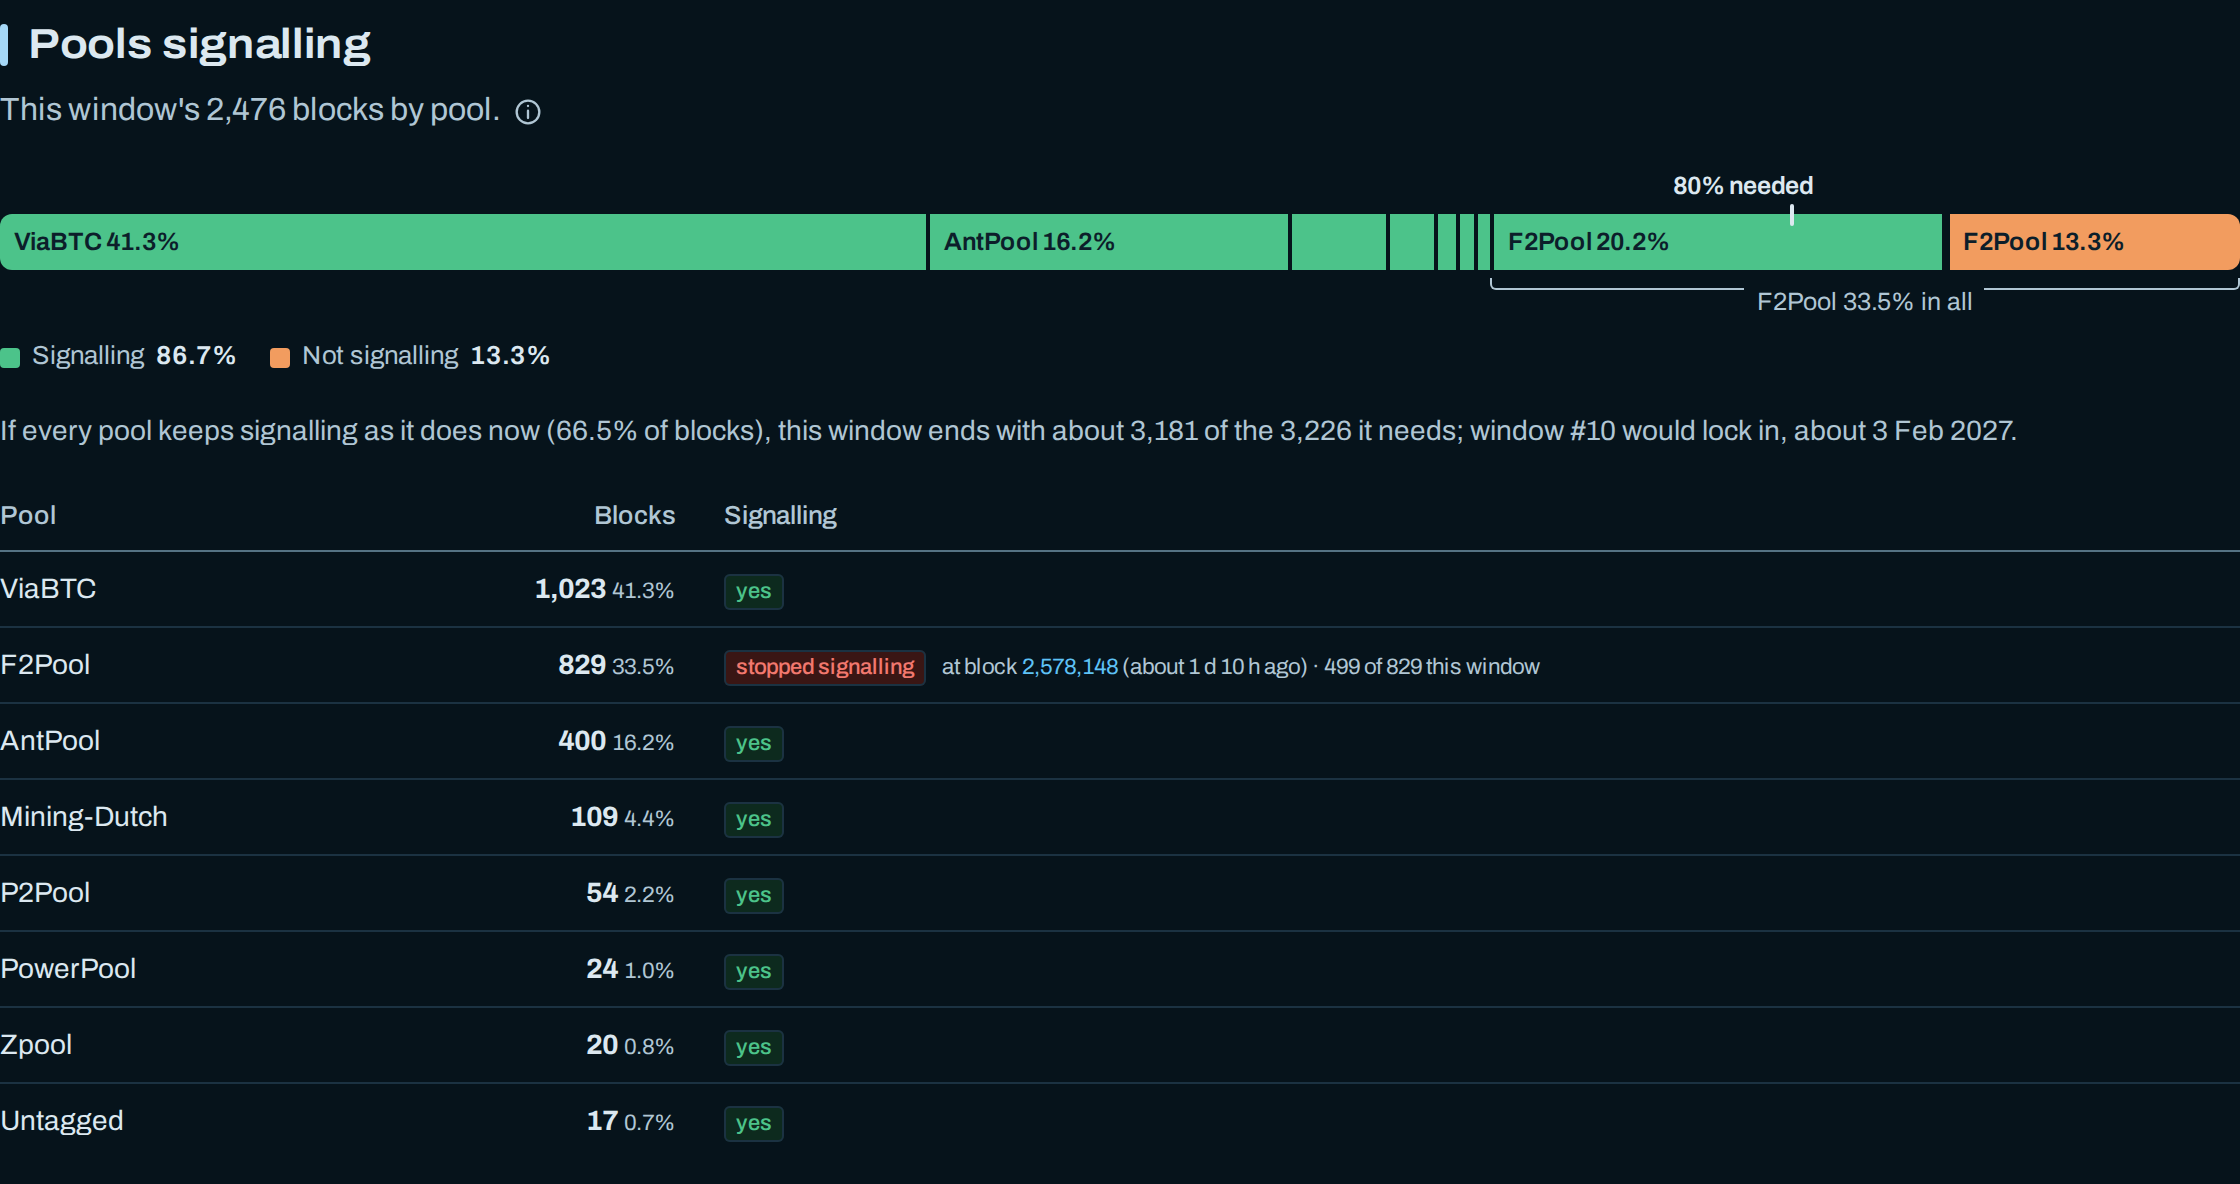
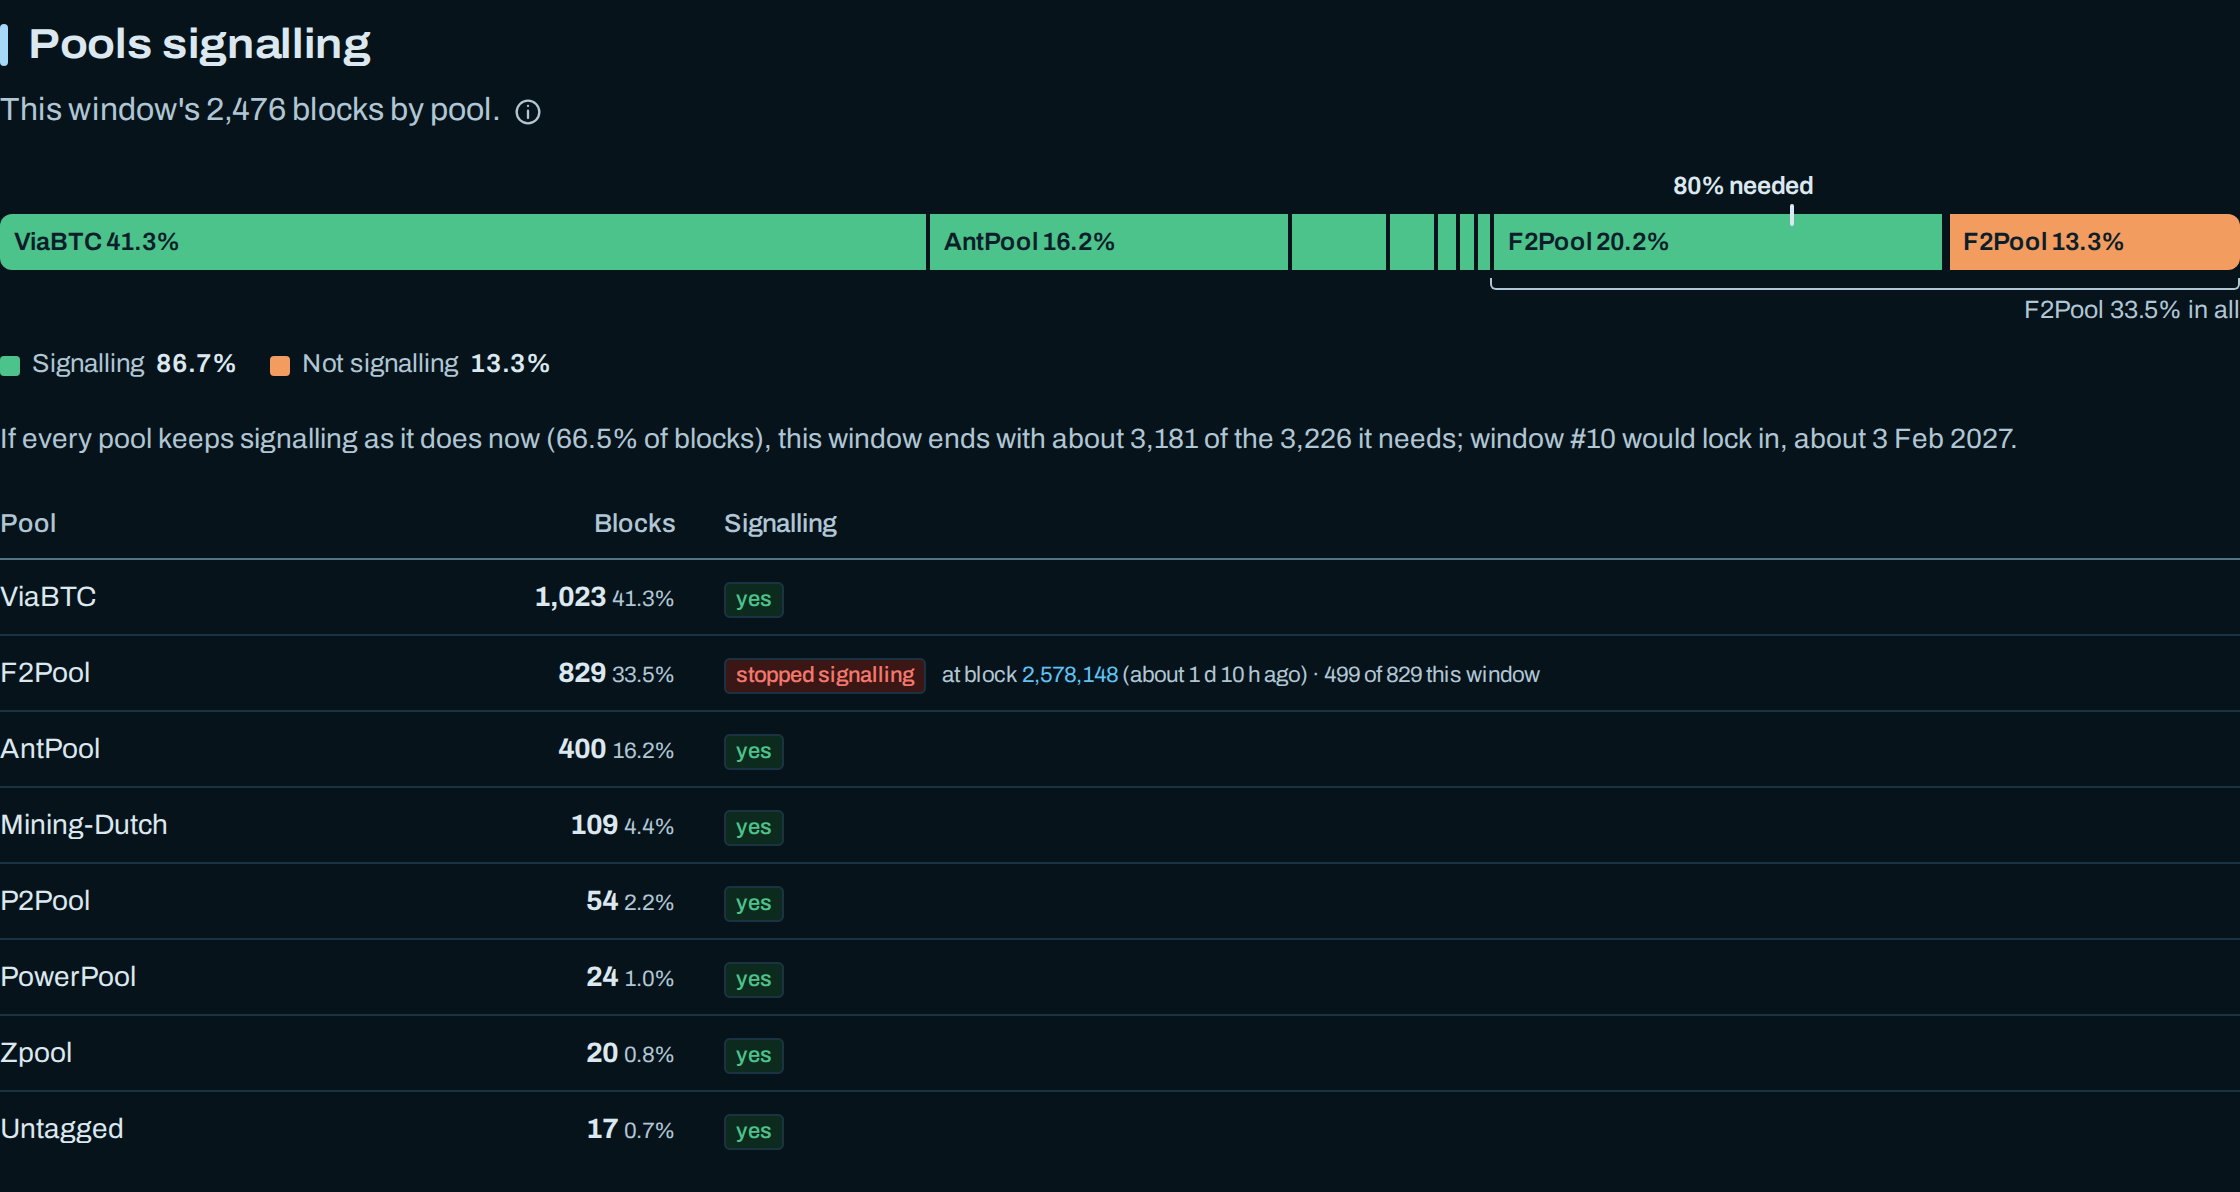
radar PR 30: screenshots for head 19dcdc54

diff --git a/radar/pr-30/README.md b/radar/pr-30/README.md
@@ -1,6 +1,7 @@
 # radar PR #30: pools that switched signalling mid-window
 
 - before: base `3333936fd` (origin/main), local dev build of the unchanged tree
-- after: PR head `9cad56d5`, same build setup
+- after: PR head `19dcdc54`, same build setup
 - Both use the same live mainnet `/api/v1/mainnet/activation` snapshot (tip 2,578,923), so the comparison is like-for-like. Pinned by Playwright route; every other source was live. The viewports are 1280×900 and 390×844 (2×), light and dark, UTC.
 - synthetic-stopped: the same snapshot rewritten so F2Pool stops signalling at block 2,578,148 (the reverse case). Synthetic, not live.
+- synthetic-edge: the same snapshot rewritten so Mining-Dutch steadily misses 9 of its 109 blocks. It reads "partly", not a switch, and its bracket sits at the bar's right end. Synthetic, not live.
